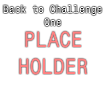
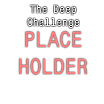
2 new achievements

Changed region(s): [[0.0, 0.0288, 1.0, 0.2885]]

diff --git a/javascripts/game.js b/javascripts/game.js
@@ -3946,6 +3946,7 @@ function setAchieveTooltip() {
     let uc = document.getElementById("Underchallenged")
     let wd = document.getElementById("Weak Decay")
     let arent = document.getElementById("Aren't you already dead?")
+    let ee = document.getElementById("Everlasting Eternities")
 
     alot.setAttribute('ach-tooltip', "Buy a single Second Dimension."+(player.aarexModifications.ngmX>3?" Reward: You gain Time Shards 100x faster.":""))
     ndial.setAttribute('ach-tooltip', "Have exactly 99 Eighth Dimensions. Reward: Eighth Dimensions are 10% stronger"+(player.tickspeedBoosts==undefined?".":" and you gain more GP based on your Eighth Dimensions and your Tickspeed Boosts."));
@@ -4051,6 +4052,7 @@ function setAchieveTooltip() {
     mi.setAttribute('ach-tooltip', "Get "+shorten(Number.MAX_VALUE)+" infinitied stat. Reward: You gain banked infinites and eternities when you either go quantum or Big Rip the universe without having to gain infinitied and eternitied.")
     wd.setAttribute('ach-tooltip', "Get "+shortenCosts(Decimal.pow(10, 1e12))+" Infinity Unstable Quarks for each Branch without Big Ripping.")
     arent.setAttribute('ach-tooltip', "Reach "+shortenCosts(Decimal.pow(10, 18e5))+" IP while dilated and big ripped and without having studies, EP mult upgrades, Tree Upgrades, and Break Eternity.")
+    ee.setAttribute('ach-tooltip', "Get "+shorten(Number.MAX_VALUE)+" eternitied stat.")
 }
 
 
@@ -5478,6 +5480,7 @@ function eternity(force, auto, presetLoad, dilated) {
         if (player.dead && !force) giveAchievement("You're already dead.")
         if (player.infinitied <= 1 && !force) giveAchievement("Do I really need to infinity")
         if (gainedEternityPoints().gte("1e600") && player.thisEternity <= 600 && player.dilation.active && !force) giveAchievement("Now you're thinking with dilation!")
+        if (ghostified && player.currentEternityChall == "eterc11" && inQC(6) && inQC(8) && inQCModifier('ad')) giveAchievement("The Deep Challenge")
         if (isEmptiness) {
             showTab("dimensions")
             isEmptiness = false
@@ -7603,6 +7606,7 @@ setInterval(function() {
         }
         if (tmp.qu.bigRip.spaceShards.e>32&&!tmp.qu.breakEternity.did) giveAchievement("Finite Time")
         if (nG(getInfinitied(), Number.MAX_VALUE)) giveAchievement("Meta-Infinity confirmed?")
+        if (nG(getEternitied(), Number.MAX_VALUE)) giveAchievement("Everlasting Eternities")
     }
     if (speedrunMilestonesReached>notifyId) {
         $.notify("You have unlocked "+timeDisplayShort(speedrunMilestones[notifyId]*36e3)+" speedrun milestone! "+(["You now start with 20,000 eternities when going quantum","You unlocked time theorem autobuyer","You now start with all Eternity Challenges completed and\neternity upgrades bought","You now start with dilation unlocked","You unlocked a new option for eternity autobuyer","You now start with all dilation studies and\nnon-rebuyable dilation upgrades before Meta Dimensions unlocked except passive TT gen upgrade","You unlocked first meta dimension autobuyer","You unlocked second meta dimension autobuyer","You unlocked third meta dimension autobuyer","You unlocked fourth meta dimension autobuyer","You unlocked fifth meta dimension autobuyer and you now keep time studies and passive TT gen upgrade","You unlocked sixth meta dimension autobuyer","You unlocked seventh meta dimension autobuyer","You unlocked eighth meta dimension autobuyer and\nall non-rebuyable dilation upgrades","You unlocked meta-dimension boost autobuyer","You now keep all time studies in mastery studies","You can now buy Meta Dimensions without buying the previous dimension","You now start with "+shortenCosts(1e13)+" eternities","You now start with "+shortenCosts(1e25)+" meta-antimatter on reset","You can now turn on automatic replicated galaxies anytime","You made rebuyable dilation upgrade and Meta Dimension autobuyers 3x faster","You now start with "+shortenCosts(1e100)+" dilated time on quantum and dilated time does not reset until quantum","You unlocked quantum autobuyer","You now keep replicanti on eternity","You unlocked manual mode for eternity autobuyer and sacrifice galaxy autobuyer","Your rebuyable dilation upgrade autobuyer now can buy max all upgrades","You now can buy max meta-dimension boosts and start with 4 meta-dimension boosts","For now on, you can gain banked infinities based on your post-crunch infinitied stat"])[notifyId]+".","success")

diff --git a/javascripts/core/newsticker.js b/javascripts/core/newsticker.js
@@ -285,7 +285,10 @@ newsArray = [//always true
 ["Congratulations for beating NG-3! (for now...)", "player.tickspeedBoosts !== undefined && player.postChallUnlocked > 5", "am130"],
 ["Progressing as a Ghost...", "ghostified && player.ghostify.ghostlyPhotons.unl", "am131"],
 ["VROOOOOOM!!!", "player.infinityUpgrades.includes('postGalaxy')", "am132"],
-/*NEXT ID: am133*/
+["Quantum Challenges are not challenging enough.", "player.masterystudies !== undefined && player.masterystudies.includes('d9')", "am133"],
+["U is the new M", "player.achievements.includes('ng3p45')", "am134"],
+["Antimatter has just declared war on Matter. We are no longer safe. We are no longer free.", true, "am135"],
+/*NEXT ID: am136*/
 
 //Ghostly news ticker messages
 ["Kee-hee-hee!", true, "gn1"],
@@ -307,7 +310,10 @@ newsArray = [//always true
 ["If you read 'Congratulations for beating NG+3' message, here is a spoiler: In the next update, there will be W & Z Bosons!", "player.newsArray.includes('am68') && player.totalmoney.gte(Decimal.pow(10, 5e16))", "gn17"],
 ["WARNING: Do not interact evil ghosts. They can scare you out.", true, "gn18"],
 ["Do you know that ghosts are proved to be undead?", true, "gn19"],
-["I got Ghost Particles. I got Neutrinos. That makes me a ghost.", true, "gn20"]
+["I got Ghost Particles. I got Neutrinos. That makes me a ghost.", true, "gn20"],
+["Ghostly Photons can't emit light. They emit ghostly light!", "player.achievements.includes('ng3p71')", "gn21"],
+["You got Light Empowerments? That means you have Ghostly Light inside of you! Kee-hee-hee!", "player.ghostify.ghostlyPhotons.enpowerments || player.achievements.includes('ng3p81')", "gn22"],
+["Ghosts can experiment and discover some Bosons.", "player.achievements.includes('ng3p81')", "gn23"]
 ];}
 
 document.addEventListener("visibilitychange", function() {if (!document.hidden) {scrollNextMessage();}}, false);

diff --git a/index.html b/index.html
@@ -2603,13 +2603,13 @@
 								<div id="Big Rip isn't enough" class="achievement achievementlocked" style="background-image: url(images/170.png)" ach-tooltip="Complete a Paired Challenge with Quantum Challenges 6 and 8 combinations."></div>
 							</td>
 							<td>
-								<div id="ng3p85" class="achievement achievementlocked" style="background-image: url(images/achhidden.png)"></div>
+								<div id="Everlasting Eternities" class="achievement achievementlocked" style="background-image: url(images/171.png)"></div>
 							</td>
 							<td>
-								<div id="ng3p86" class="achievement achievementlocked" style="background-image: url(images/achhidden.png)"></div>
+								<div id="Back to Challenge One" class="achievement achievementlocked" style="background-image: url(images/172.png)" ach-tooltip="Get ??? antimatter in Paired Challenge 1 with Quantum Challenges 6 and 8 combinations."></div>
 							</td>
 							<td>
-								<div id="Back to Challenge One" class="achievement achievementlocked" style="background-image: url(images/173.png)" ach-tooltip="Get ??? antimatter in Paired Challenge 1 with Quantum Challenges 6 and 8 combinations."></div>
+								<div id="The Deep Challenge" class="achievement achievementlocked" style="background-image: url(images/173.png)" ach-tooltip="Complete Eternity Challenge 11 in a Paired Challenge with Quantum Challenges 6 and 8 combinations and Anti-Dilation modifier."></div>
 							</td>
 							<td>
 								<div id="I give up." class="achievement achievementlocked" style="background-image: url(images/174.png)" ach-tooltip="Reach ??? IP while dilated and big ripped with Anti-Dilation modifier and without having studies, EP mult upgrades, Tree Upgrades, and Break Eternity."></div>

diff --git a/javascripts/core/achievements.js b/javascripts/core/achievements.js
@@ -177,9 +177,9 @@ const allAchievements = {
   ng3p82 : "Overchallenged",
   ng3p83 : "Pulling an All-Nighter",
   ng3p84 : "Big Rip isn't enough",
-  ng3p85 : "ng3p85",
-  ng3p86 : "ng3p86",
-  ng3p87 : "Back to Challenge One",
+  ng3p85 : "Everlasting Eternities",
+  ng3p86 : "Back to Challenge One",
+  ng3p87 : "The Deep Challenge",
   ng3p88 : "I give up.",
   s11 : "The first one's always free",
   s12 : "Just in case",

diff --git a/javascripts/mods/ngppp.js b/javascripts/mods/ngppp.js
@@ -1019,7 +1019,7 @@ function doAutoMetaTick() {
 				buyDilationUpgrade(11)
 				buyDilationUpgrade(3)
 				buyDilationUpgrade(1)
-				if (canMaxGalaxyThresholdUpg()) buyDilationUpgrade(2)
+				if (canBuyGalaxyThresholdUpg()) buyDilationUpgrade(2)
 			}
 		}
 	}
